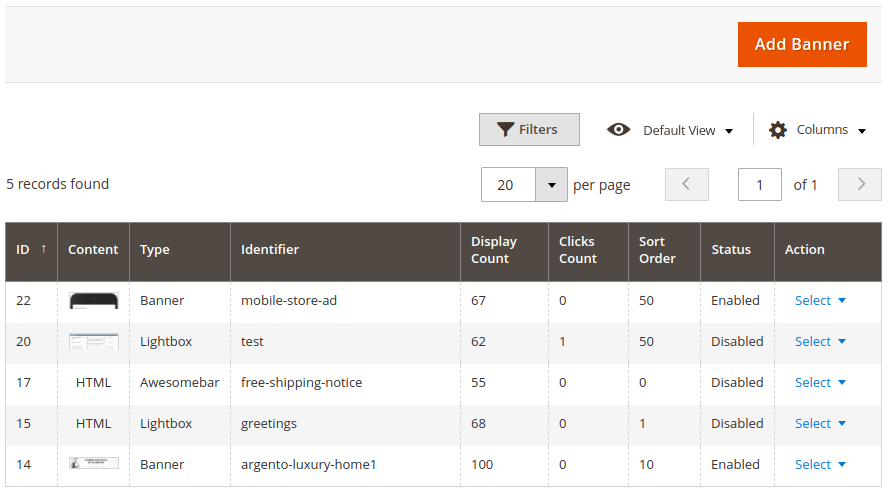
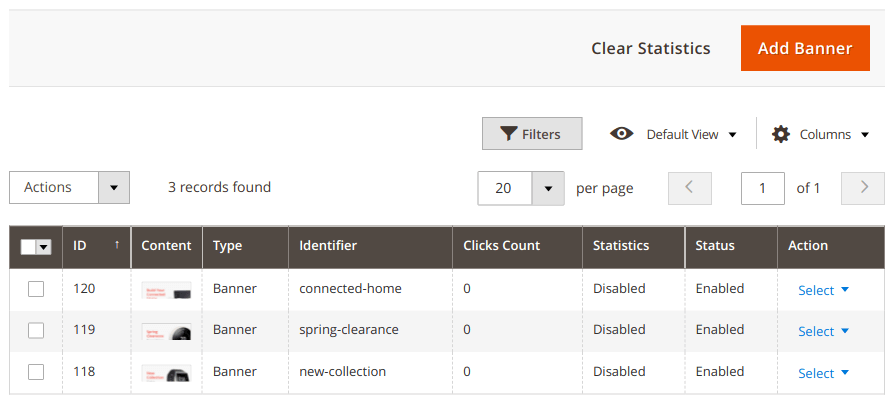
Easybanner: 1.7.1

diff --git a/m2/extensions/easybanners/changelog.md b/m2/extensions/easybanners/changelog.md
@@ -8,6 +8,21 @@ category: Easy Banners
 
 # Changelog
 
+### Version 1.7.1
+
+> Jun 14, 2021
+
+ -  New animations for [popup banners](/m2/extensions/easybanners/use-cases/newsletter-popup/#general-settings).
+ -  Added ability to [disable/enable statistics](/m2/extensions/easybanners/interfaces/#general-tab) for each banner.
+ -  Added ability to remove all statistics from banners
+    [grid page](/m2/extensions/easybanners/interfaces/#grid-1),
+    or per banner statistics from banner edit page.
+ -  Added ability to change [cookie name](/m2/extensions/easybanners/configuration/#general).
+ -  Mass actions added to [banners grid](/m2/extensions/easybanners/interfaces/#grid-1).
+ -  Fixed missing "Delete" button at the top of edit banner page.
+ -  Added cron job to cleanup old statistics (older than 6 month).
+ -  Small improvements in JS code.
+
 ### Version 1.6.3
 
 > May 14, 2021

diff --git a/m2/extensions/easybanners/interfaces.md b/m2/extensions/easybanners/interfaces.md
@@ -62,6 +62,7 @@ Field                   | Description
 Enabled                 | Enable or Disable Banner
 Identifier              | Banner name
 Type                    | Possible values are: Banner, Lightbox, Awesomebar
+Enable Statistics       | Enable or Disable Statistics (Clicks count)
 Sort Order              | Allows to sort banners inside a placeholder
 Store View              | Assign Banner to Specific Store Views
 Placeholder             | Select placeholder. Not visible for Lightbox and Awesomebar banners. You can leave it empty to show the banner [manually](/m2/extensions/easybanners/usage/#show-banner-on-frontend)

diff --git a/m2/extensions/easybanners/configuration.md b/m2/extensions/easybanners/configuration.md
@@ -1,0 +1,24 @@
+---
+layout: default
+title: Delivery Date and Time Configuration
+description: Delivery Date and Time configuration
+category: Delivery Date
+---
+
+# Configuration
+
+Configuration is available at
+_Stores > Configuration > Swissup > Easybanner_ page.
+
+### General
+
+![General configuration](/images/m2/easybanners/configuration/general.png)
+
+Option                          | Description
+:-------------------------------|:-------------------------
+Cookie Name                     | Set custom cookie name.
+
+### Next up
+{:.no_toc}
+
+ -  [Back to Main Page](/m2/extensions/easybanners/)

diff --git a/m2/extensions/easybanners/index.md b/m2/extensions/easybanners/index.md
@@ -24,7 +24,8 @@ There are three banner types available:
 
  -  [Installation](installation/)
  -  [Changelog](changelog/)
- -  [Admin interfaces](interfaces/)
+ -  Admin interfaces
+    - [Configuration](configuration/#general)
     - [Placeholders](interfaces/#placeholders)
     - [Banners](interfaces/#banners)
  -  [Banners and Placeholder usage](usage/)
